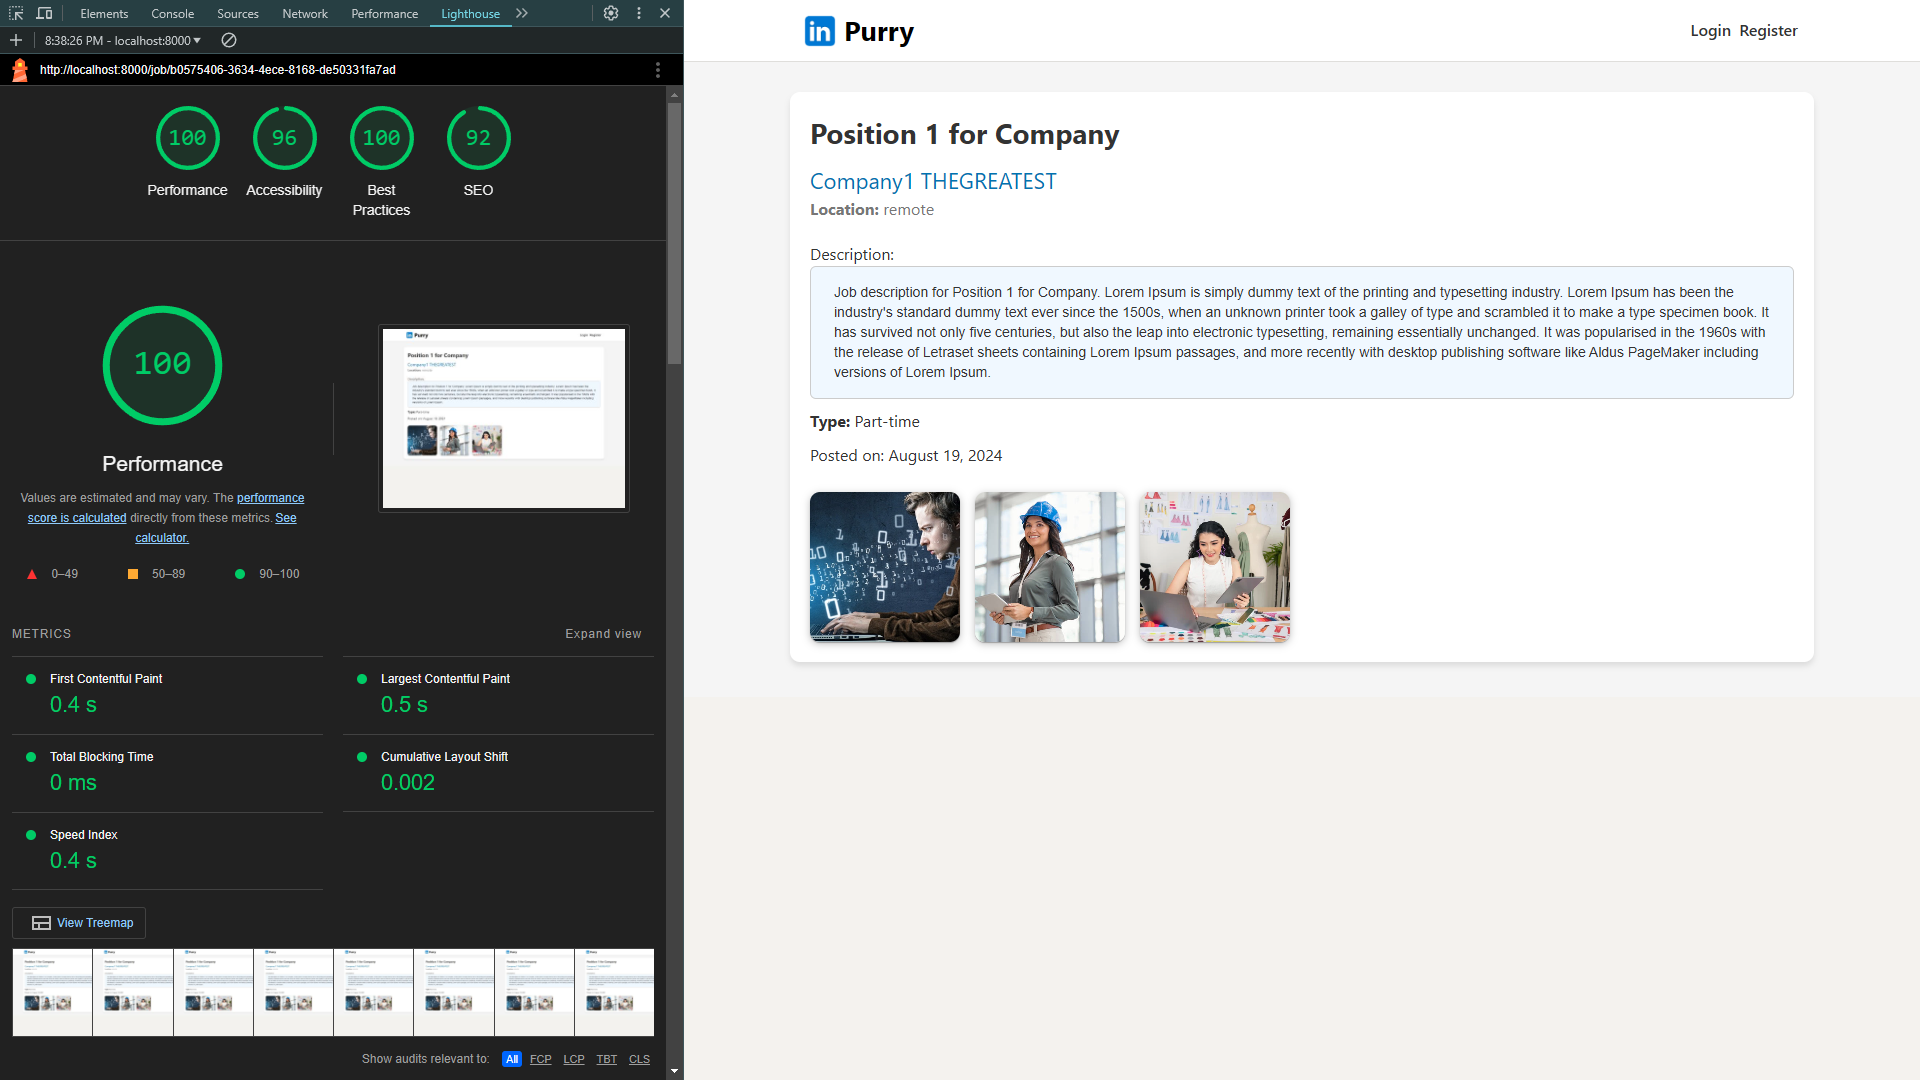
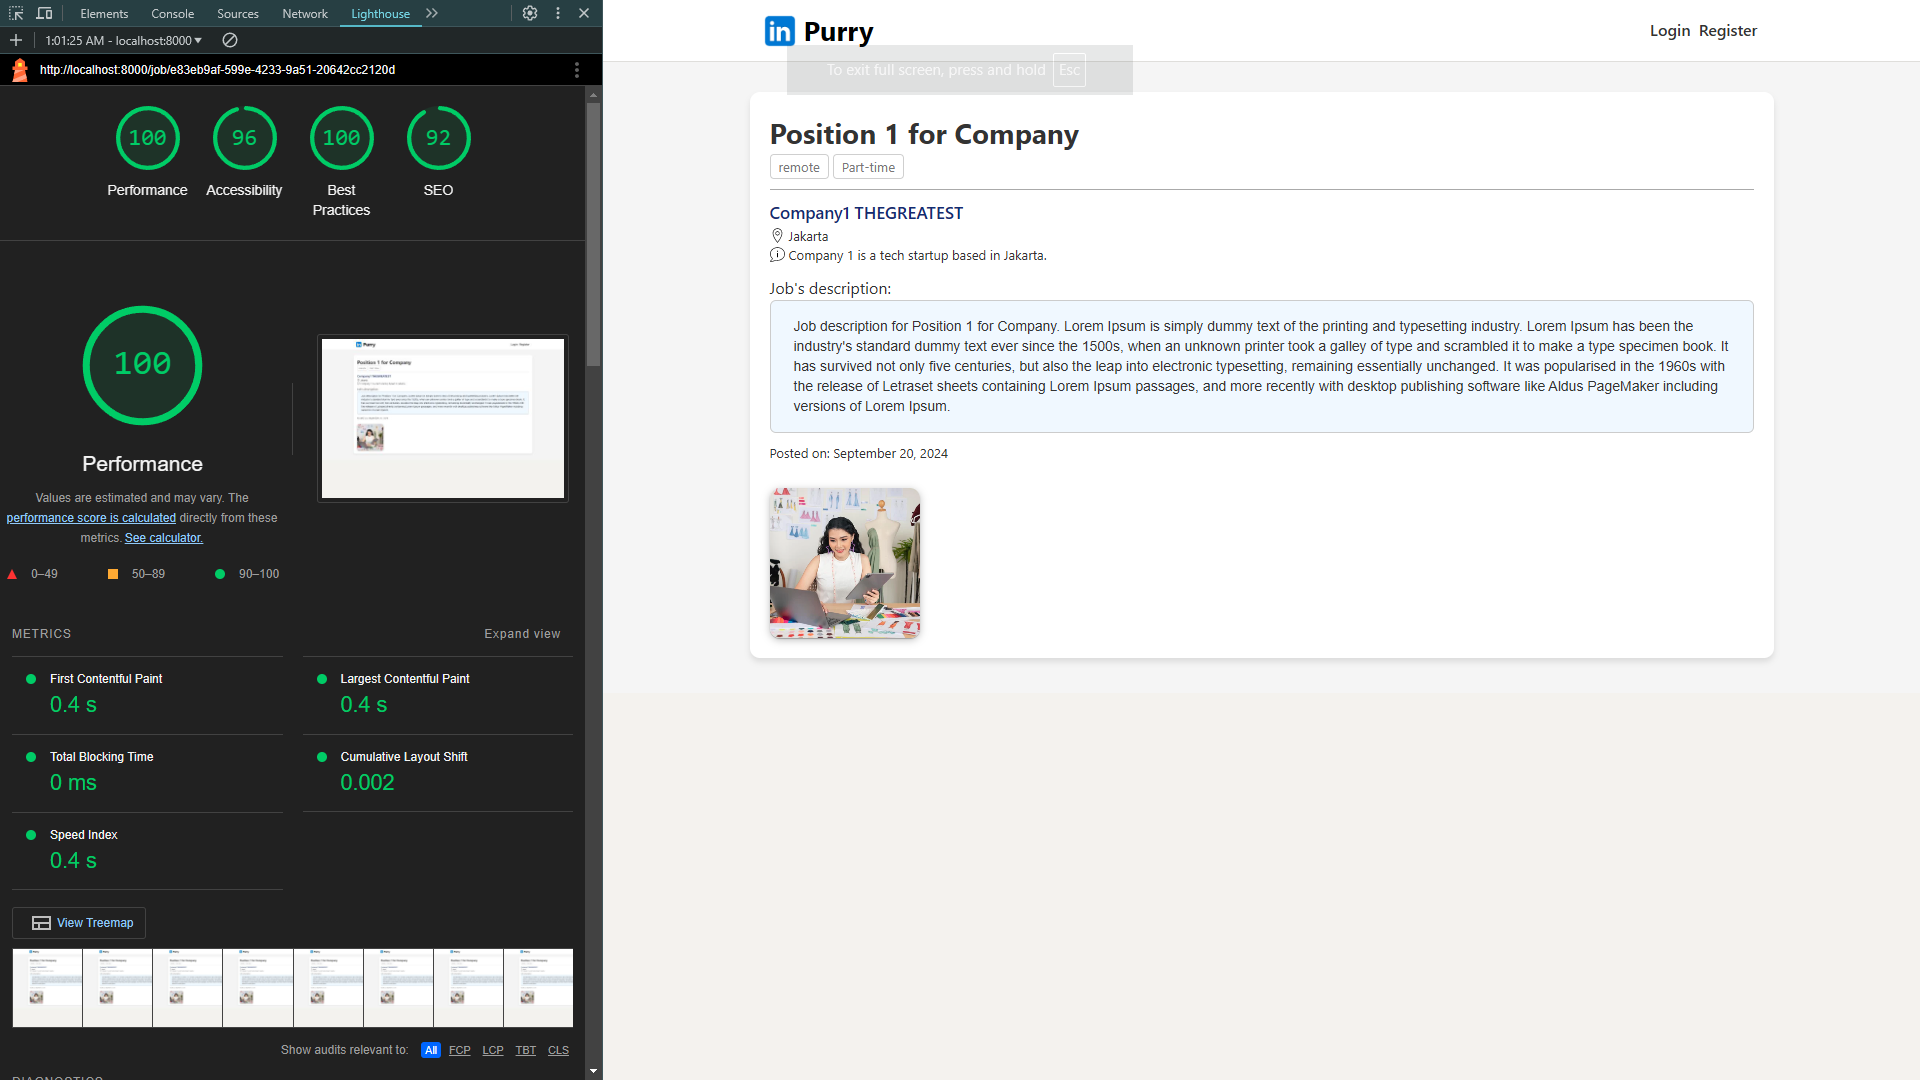
feat: add history page

diff --git a/php/src/public/css/pages/history.css b/php/src/public/css/pages/history.css
@@ -1,0 +1,69 @@
+#history {
+    display: flex;
+    justify-content: center;
+    align-items: center;
+    margin-top: 20px;
+}
+
+.jobs-container {
+    padding-left: 15px;
+    padding-right: 15px;
+}
+
+.jobs-container h2 {
+    font-size: larger;
+    font-weight: 600;
+}
+
+.job-card {
+    background-color: #fff;
+    border: 1px solid #ddd;
+    margin-top: 20px;
+    margin-bottom: 20px;
+    border-radius: 10px;
+    padding: 20px;
+    box-shadow: 0 2px 5px rgba(0, 0, 0, 0.1);
+}
+
+.job-header {
+    margin-bottom: 15px;
+}
+
+.job-title {
+    font-size: 1.2em;
+    color: #0073b1;
+}
+
+.company-name {
+    font-size: 0.9em;
+    color: #555;
+}
+
+.job-body {
+    margin-bottom: 15px;
+}
+
+.job-footer {
+    display: flex;
+    justify-content: space-between;
+    align-items: center;
+}
+
+.link-btn {
+    background-color: #0073b1;
+    color: white;
+    padding: 8px 12px;
+    border: none;
+    border-radius: 5px;
+    cursor: pointer;
+    text-decoration: none; /* Remove underline from link */
+    display: inline-block; /* Allow padding and line-height to take effect */
+    line-height: normal; /* Reset line-height to prevent vertical misalignment */
+    font-family: inherit; /* Use the same font as the rest of the page */
+    font-size: inherit; /* Use the same font size as the rest of the page */
+}
+
+.link-btn:hover {
+    background-color: #005a8c;
+    text-decoration: none; /* Ensure no underline appears on hover */
+}

diff --git a/php/src/public/css/pages/jobdetail.css b/php/src/public/css/pages/jobdetail.css
@@ -20,37 +20,59 @@
     font-size: 28px;
     font-weight: bold;
     color: #333;
-    margin-bottom: 10px;
 }
 
-.company-info {
+.job-info-container {
+    display: flex;
+    gap: 4px;
+    flex-wrap: wrap;
+}
+
+.company-details {
     margin-top: 10px;
+    padding-top: 10px;
+    border-top: 1px #aaaaaa solid;
+}
+
+.company-details p {
+    display: flex;
+    align-items: center;
+    font-size:small;
+    gap: 4px;
+}
+
+.company-details img {
+    height: 15px;
+    width: 15px;
 }
 
 .company-name {
-    font-size: 22px;
-    color: #0073b1; /* LinkedIn brand color */
+    font-size: 17px;
+    font-weight: 600;
+    color: #122c72;
 }
 
-.job-location {
-    font-size: 16px;
+.job-info {
+    font-size:small;
     color: #777;
+    padding: 2px 8px 2px 8px;
+    border-radius: 4px;
+    border: 0.5px solid rgb(207, 207, 207);
 }
 
 .job-description {
-    margin-top: 20px;
+    margin-top: 10px;
     font-size: 16px;
     line-height: 1.6;
 }
 
-.job-description h2 {
-    font-size: 20px;
-    margin-bottom: 10px;
-}
-
-.job-type, .job-posted-date {
+.job-posted-date {
     margin-top: 10px;
     font-size: 16px;
+}
+
+.job-posted-date p {
+    font-size: small;
 }
 
 .apply-button {

diff --git a/php/src/public/js/navbar.js b/php/src/public/js/navbar.js
@@ -135,7 +135,7 @@ function redirectToRegister() {
 }
 
 function redirectToHistory() {
-    window.location.href = '/jobseeker/history';  // Replace with your history page URL
+    window.location.href = '/history';  // Replace with your history page URL
 }
 
 function redirectToProfile() {

diff --git a/php/src/pages/history/HistoryPage.php b/php/src/pages/history/HistoryPage.php
@@ -1,12 +1,41 @@
 <?php require_once __DIR__ . "/../template/header.php" ?>
 <?php require_once __DIR__ . "/../template/navbar.php" ?>
 
-<style>
-    /* style for history */
-</style>
+<link rel="stylesheet" href="http://localhost:8000/public/css/pages/history.css">
 
 <section id="history">
-    <h2>History for Jobseeker</h2>
+    <div class="jobs-container container">
+        <?php
+        // Pastikan variabel $jobs terdefinisi dan berisi daftar pekerjaan
+        if (isset($jobs) && count($jobs) > 0) {
+            ?>
+                <h2>Your applied job(s).</h2>
+            <?
+            foreach ($jobs as $job) {
+                ?>
+                <div class="job-card">
+                    <div class="job-header">
+                        <h3 class="job-title"><?= htmlspecialchars($job['posisi']) ?></h3>
+                        <p class="company-name"><?= htmlspecialchars($job['company_name']) ?></p>
+                    </div>
+                    <div class="job-body">
+                        <p><strong>Type:</strong> <?= htmlspecialchars($job['jenis_pekerjaan']) ?></p>
+                        <p><strong>Location:</strong> <?= htmlspecialchars($job['jenis_lokasi']) ?></p>
+                    </div>
+                    <div class="job-footer">
+                        <p><small>Posted on: <?= date('F j, Y', strtotime($job['created_at'])) ?></small></p>
+                        <a href="http://localhost:8000/job/<?= $job['lowongan_id'] ?>" class="link-btn">Detail</a>
+                    </div>
+                </div>
+                <?php
+            }
+        } else {
+            ?>
+            <p>No Job Available</p>
+            <?php
+        }
+        ?>
+    </div>
 </section>
 
 <?php require_once __DIR__ . "/../template/footer.php" ?>

diff --git a/php/src/pages/job/JobDetailPage.php b/php/src/pages/job/JobDetailPage.php
@@ -7,18 +7,20 @@
 <section id="job-detail" aria-labelledby="job-title">
     <div class="container job-container shadow-4">
         <h1 id="job-title" class="job-title"><?= htmlspecialchars($jobDetail['posisi']) ?></h1>
-        <div class="company-info" role="complementary">
+        <div class="job-info-container" role="complementary">
+            <p class="job-info"><?= htmlspecialchars($jobDetail['jenis_lokasi']) ?></p>
+            <p class="job-info"><?= htmlspecialchars($jobDetail['jenis_pekerjaan']) ?></p>
+        </div>
+        <div class="company-details">
             <h2 class="company-name"><?= htmlspecialchars($jobDetail['company_name']) ?></h2>
-            <p class="job-location"><strong>Location: </strong><?= htmlspecialchars($jobDetail['jenis_lokasi']) ?></p>
+            <p><img alt="Location icon" src="http://localhost:8000/public/assets/icons/Location.ico"><?= htmlspecialchars($jobDetail['lokasi'])?></p>
+            <p><img alt="Location icon" src="http://localhost:8000/public/assets/icons/About.ico"><?= htmlspecialchars($jobDetail['about'])?></p>
         </div>
         <div class="job-description">
-            <label for="job-description-editor">Description:</label>
+            <label for="job-description-editor">Job's description:</label>
             <div id="job-description-editor" role="document">
                 <?= htmlspecialchars($jobDetail['deskripsi']) ?>
             </div>
-        </div>
-        <div class="job-type">
-            <p><strong>Type:</strong> <?= htmlspecialchars($jobDetail['jenis_pekerjaan']) ?></p>
         </div>
         <div class="job-posted-date">
             <p>Posted on: <?= htmlspecialchars(date('F j, Y', strtotime($jobDetail['created_at']))) ?></p>

diff --git a/php/src/models/JobModel.php b/php/src/models/JobModel.php
@@ -113,7 +113,7 @@ class JobModel
         ];
     }
 
-    public function getAttachments($lowonganId) 
+    public function getAttachments($lowonganId)
     {
         $this->db->query("SELECT * FROM attachments_lowongan WHERE lowongan_id = :lowonganId");
         $this->db->bind(':lowonganId', $lowonganId);
@@ -141,11 +141,28 @@ class JobModel
         return $this->db->execute();
     }
 
+    public function getAllAppliedJobs()
+    {
+        $userId = $_SESSION['user_id'];
+        $this->db->query("SELECT lowongan.*, users.nama as company_name 
+            FROM lamaran 
+            JOIN lowongan ON lamaran.lowongan_id = lowongan.lowongan_id 
+            JOIN users ON lowongan.company_id = users.user_id 
+            WHERE lamaran.user_id = :userId
+        ");
+        $this->db->bind(':userId', $userId);
+
+        return $this->db->resultSet();
+    }
+
     public function getJobDetail($lowonganId)
     {
-        $this->db->query("SELECT lowongan.*, users.nama as company_name 
+        $this->db->query("SELECT lowongan.*, users.nama as company_name,
+                                    company_details.lokasi as lokasi,
+                                    company_details.about as about
                             FROM lowongan 
-                            JOIN users ON lowongan.company_id = users.user_id 
+                            JOIN users ON lowongan.company_id = users.user_id
+                            JOIN company_details ON users.user_id = company_details.user_id
                             WHERE lowongan.lowongan_id = :lowonganId");
         $this->db->bind(':lowonganId', $lowonganId);
         return $this->db->single();

diff --git a/php/src/models/ApplicationModel.php b/php/src/models/ApplicationModel.php
@@ -31,6 +31,29 @@ class ApplicationModel {
         return $this->db->execute();
     }
 
+    public function isFileOwnedByJobseeker($userId, $fileName) {
+        $this->db->query('SELECT * FROM lamaran WHERE user_id = :userID AND (cv_path = :cvPath OR video_path = :videoPath)');
+        $this->db->bind(':userID', $userId);
+        $this->db->bind(':cvPath', $fileName);
+        $this->db->bind(':videoPath', $fileName);
+        $data = $this->db->resultSet();
+        return count($data) > 0;
+    }
+
+    public function isFileAccessedByCompany($companyId, $fileName) {
+        $this->db->query("SELECT * FROM lamaran
+            JOIN lowongan ON lamaran.lowongan_id = lowongan.lowongan_id
+            WHERE lowongan.company_id = :companyID 
+            AND (cv_path = :cvPath OR video_path = :videoPath)
+        ");
+        $this->db->bind(":companyID", $companyId);
+        $this->db->bind(":cvPath", $fileName);
+        $this->db->bind(":videoPath", $fileName);
+        $data = $this->db->resultSet();
+
+        return count($data) > 0;
+    }
+
     public function isLowonganExists($userId, $lowonganId) {
         $this->db->query("SELECT * FROM lowongan WHERE company_id = :userId AND lowongan_id = :lowonganId");
         $this->db->bind(':userId', $userId);

diff --git a/php/src/controllers/StorageController.php b/php/src/controllers/StorageController.php
@@ -41,8 +41,8 @@ class StorageController extends Controller
 
         // Access control: jobseeker can only access their own files
         if ($role === 'jobseeker') {
-            $userID = explode("_", $fileName)[0];
-            if ($userID !== $_SESSION['user_id']) {
+            $isAccessed = $this->model('ApplicationModel')->isFileOwnedByJobseeker($_SESSION['user_id'], $fileName);
+            if (!$isAccessed) {
                 header("HTTP/1.1 403 Forbidden");
                 echo "Unauthorized access.";
                 exit;
@@ -50,10 +50,8 @@ class StorageController extends Controller
         }
         // Access control: company can only access files related to their jobs
         else {
-            $fileNameWithoutExtension = pathinfo($fileName, PATHINFO_FILENAME);
-            $jobID = explode("_", $fileNameWithoutExtension)[1] ?? '';
-            $isExists = $this->model('ApplicationModel')->isLowonganExists($_SESSION['user_id'], $jobID);
-            if (!$isExists) {
+            $isAccessed = $this->model('ApplicationModel')->isFileAccessedByCompany($_SESSION['user_id'], $fileName);
+            if (!$isAccessed) {
                 header("HTTP/1.1 403 Forbidden");
                 echo "Unauthorized access.";
                 exit;

diff --git a/php/src/controllers/HistoryController.php b/php/src/controllers/HistoryController.php
@@ -4,7 +4,12 @@ class HistoryController extends Controller implements ControllerInterface
 {
     public function index()
     {
-        $homeview = $this->view('history', 'HistoryView');
+        $role = $this->getRole();
+        if ($role !== 'jobseeker') {
+            $this->unauthorized();
+        }
+        $jobs = $this->model('JobModel')->getAllAppliedJobs();
+        $homeview = $this->view('history', 'HistoryView', ['jobs' => $jobs]);
         $homeview->render();
     }
 }

diff --git a/php/src/views/history/HistoryView.php b/php/src/views/history/HistoryView.php
@@ -10,6 +10,7 @@ class HistoryView implements ViewInterface
 
     public function render()
     {
+        extract($this->data);
         require_once __DIR__. '/../../pages/history/HistoryPage.php';
     }
 }
